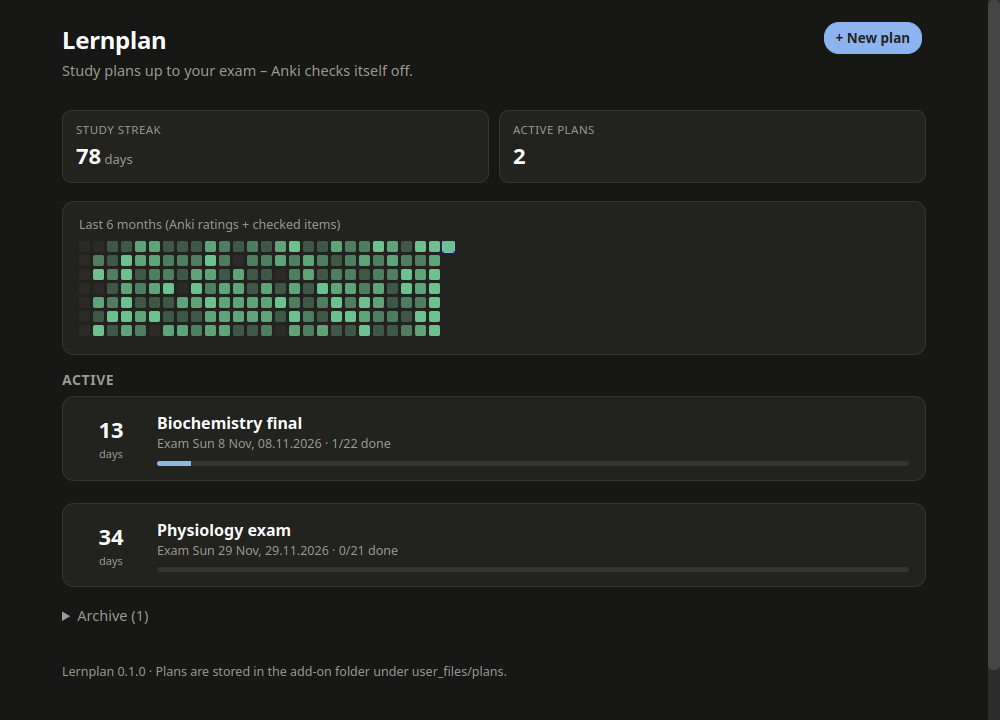
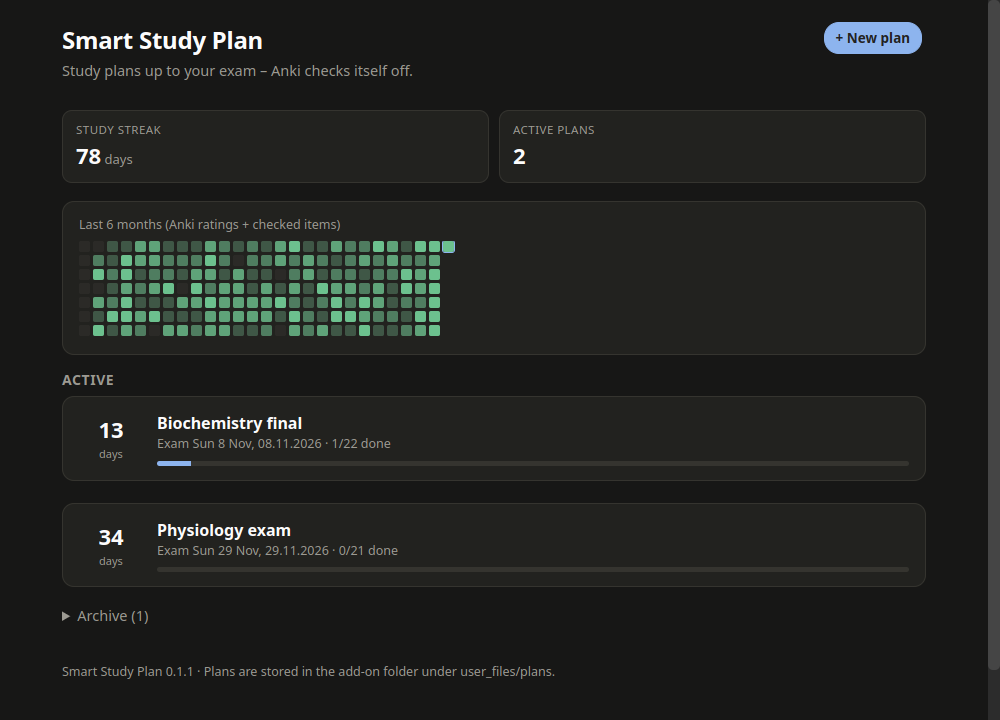
Rename to Smart Study Plan (0.1.1)

Changed region(s): [[0.062, 0.9167, 0.558, 0.9472], [0.062, 0.0306, 0.279, 0.0917]]

diff --git a/addon/web/lernplan.js b/addon/web/lernplan.js
@@ -1,4 +1,4 @@
-// Lernplan UI. Data comes from Python via pycmd("lp:{cmd,args}").
+// Smart Study Plan UI. Data comes from Python via pycmd("lp:{cmd,args}").
 (() => {
 "use strict";
 
@@ -127,7 +127,7 @@ function render() {
 function renderHome(root) {
   const d = S.data;
   root.append(h("div", { class: "top" },
-    h("div", null, h("h1", null, "Lernplan"), h("p", { class: "sub" }, L("Pläne bis zur Prüfung – Anki hakt sich selbst ab.", "Study plans up to your exam – Anki checks itself off."))),
+    h("div", null, h("h1", null, "Smart Study Plan"), h("p", { class: "sub" }, L("Pläne bis zur Prüfung – Anki hakt sich selbst ab.", "Study plans up to your exam – Anki checks itself off."))),
     h("button", { class: "primary", onclick: () => newPlan() }, L("+ Neuer Plan", "+ New plan"))));
 
   const tiles = h("div", { class: "tiles" },
@@ -142,7 +142,7 @@ function renderHome(root) {
   if (arch.length) {
     root.append(h("details", null, h("summary", null, `${L("Archiv", "Archive")} (${arch.length})`), h("div", { class: "plans" }, arch.map(planCard))));
   }
-  root.append(h("p", { class: "muted small", style: "margin-top:30px" }, `Lernplan ${d.version} · ${L("Pläne liegen im Add-on-Ordner unter user_files/plans.", "Plans are stored in the add-on folder under user_files/plans.")}`));
+  root.append(h("p", { class: "muted small", style: "margin-top:30px" }, `Smart Study Plan ${d.version} · ${L("Pläne liegen im Add-on-Ordner unter user_files/plans.", "Plans are stored in the add-on folder under user_files/plans.")}`));
 }
 function planCard(p) {
   const left = p.exam ? daysBetween(S.data.today, p.exam) : null, [dn, tot] = p.progress;
@@ -361,7 +361,7 @@ async function filtered(kind, extra) {
   const r = await run(call("filtered", Object.assign({ id: S.pid, kind }, extra || {})));
   if (!r.count) { toast(kind === "ahead" ? L("Keine Karten, die erst nach der Prüfung fällig wären.", "No cards that would only be due after the exam.") : L("Keine passenden Karten gefunden.", "No matching cards found.")); return r; }
   if (kind !== "sim") {
-    const v = await modal(L("Deck erstellt", "Deck created"), h("p", null, L(`${r.count} Karten im gefilterten Deck. Es liegt unter „Lernplan“ in deiner Deckliste.`, `${r.count} cards in the filtered deck. You'll find it under “Lernplan” in your deck list.`)), [[L("Später", "Later"), null], [L("Jetzt lernen", "Study now"), true, "primary"]]);
+    const v = await modal(L("Deck erstellt", "Deck created"), h("p", null, L(`${r.count} Karten im gefilterten Deck. Es liegt unter „Smart Study Plan“ in deiner Deckliste.`, `${r.count} cards in the filtered deck. You'll find it under “Smart Study Plan” in your deck list.`)), [[L("Später", "Later"), null], [L("Jetzt lernen", "Study now"), true, "primary"]]);
     if (v) call("study", { did: r.did });
   }
   return r;

diff --git a/addon/__init__.py b/addon/__init__.py
@@ -1,5 +1,5 @@
-# Lernplan: study plans up to the exam from books, videos, tasks and Anki decks.
-# Open it via Tools → Lernplan or the "Lernplan" link in the top bar.
+# Smart Study Plan: study plans up to the exam from books, videos, tasks and Anki decks.
+# Open it via Tools → Smart Study Plan or the "Study Plan" link in the top bar.
 # The plan checks off Anki items by itself; everything else with a click.
 import json
 import os
@@ -17,7 +17,8 @@ from aqt.webview import AnkiWebView
 from . import ankidata, planner, store
 from .planner import tr
 
-VERSION = "0.1.0"
+NAME = "Smart Study Plan"
+VERSION = "0.1.1"
 MODULE = __name__
 FOLDER = MODULE.split(".")[0]
 mw.addonManager.setWebExports(MODULE, r"web/.*\.(js|css)")
@@ -85,7 +86,7 @@ def home():
         heat[d] = heat.get(d, 0) + 1
     plans.sort(key=lambda p: (p["status"] != "active", (p["exam"] or "9999") if p["status"] == "active" else "~" + p["exam"]))
     return {"plans": plans, "today": t, "heat": heat, "streak": planner.streak(set(heat), t),
-            "profile": store.profile(), "version": VERSION}
+            "profile": store.profile(), "version": VERSION, "name": NAME}
 
 
 def generate_all(pid):
@@ -307,10 +308,10 @@ def handle(cmd, a):
     raise ValueError(f"unknown command {cmd}")
 
 
-class LernplanWindow(QDialog):
+class StudyPlanWindow(QDialog):
     def __init__(self):
         super().__init__(None, Qt.WindowType.Window)
-        self.setWindowTitle("Lernplan")
+        self.setWindowTitle(NAME)
         self.setMinimumSize(420, 500)
         lay = QVBoxLayout(self)
         lay.setContentsMargins(0, 0, 0, 0)
@@ -354,7 +355,7 @@ def open_window():
     if not mw.col:
         return
     if _win is None or not _win.isVisible():
-        _win = LernplanWindow()
+        _win = StudyPlanWindow()
         _win.finished.connect(_closed)
     _win.show()
     _win.raise_()
@@ -375,7 +376,7 @@ def _changed(*_):
 
 
 def _toolbar(links, toolbar):
-    links.append(toolbar.create_link("lernplan", "Lernplan", open_window, tip=tr("Lernplan öffnen", "Open Lernplan"), id="lernplan"))
+    links.append(toolbar.create_link("lernplan", "Study Plan", open_window, tip=tr(f"{NAME} öffnen", f"Open {NAME}"), id="lernplan"))
 
 
 def _profile_closing():
@@ -383,7 +384,7 @@ def _profile_closing():
         _win.close()
 
 
-action = QAction("Lernplan…", mw)
+action = QAction(f"{NAME}…", mw)
 action.triggered.connect(open_window)
 mw.form.menuTools.addAction(action)
 gui_hooks.top_toolbar_did_init_links.append(_toolbar)

diff --git a/addon/ankidata.py b/addon/ankidata.py
@@ -10,7 +10,7 @@ from anki.utils import ids2str
 from . import planner
 from .planner import tr
 
-FILTER_PREFIX = "Lernplan"
+FILTER_PREFIX = "Smart Study Plan"
 
 
 def today(col):
@@ -332,7 +332,7 @@ def maintenance(col, plan, on):
     if on:
         if m.get("on"):
             return m
-        name = tr(f"Lernplan · Erhaltung ({plan['title']})", f"Lernplan · Maintenance ({plan['title']})")
+        name = tr(f"{FILTER_PREFIX} · Erhaltung ({plan['title']})", f"{FILTER_PREFIX} · Maintenance ({plan['title']})")
         conf = next((c for c in col.decks.all_config() if c["name"] == name), None)
         if not conf:
             first = plan_dids(col, plan)

diff --git a/addon/planner.py b/addon/planner.py
@@ -633,7 +633,7 @@ def norm(s):
 STOP = {"und", "der", "die", "das", "des", "mit", "von", "im", "in", "teil", "the", "and", "of", "a", "m", "a"}
 ROMAN = {r: str(i) for i, r in enumerate(
     "i ii iii iv v vi vii viii ix x xi xii xiii xiv xv xvi xvii xviii xix xx".split(), 1) if r != "i"}
-GENERIC = {"testat", "pruefung", "prufung", "klausur", "lernplan", "plan", "exam", "sip", "anki", "deck",
+GENERIC = {"testat", "pruefung", "prufung", "klausur", "lernplan", "smart", "plan", "exam", "sip", "anki", "deck",
            "test", "final", "midterm", "study"}
 
 

diff --git a/README.md b/README.md
@@ -1,12 +1,12 @@
-# Lernplan
+# Smart Study Plan
 
 **Study plans up to your exam, built from your book, your lectures and your Anki decks, and checked off by Anki as you study.**
 
-You tell Lernplan what you have to learn (book pages, videos, lists of tasks, Anki decks), when the exam is and how much time you have each day. It spreads everything over the days until the exam, topic by topic: first read, then watch the lecture, then do the cards. Anki items tick themselves off while you study. If you fall behind, one click replans the rest.
+You tell Smart Study Plan what you have to learn (book pages, videos, lists of tasks, Anki decks), when the exam is and how much time you have each day. It spreads everything over the days until the exam, topic by topic: first read, then watch the lecture, then do the cards. Anki items tick themselves off while you study. If you fall behind, one click replans the rest.
 
 ![Plan view](screenshots/plan.png)
 
-*"Lernplan" is German for "study plan". The interface is in English and German and follows Anki's language.*
+*An Anki add-on. No AI and no account: the scheduler runs locally on your computer. The interface is in English and German and follows Anki's language.*
 
 ## Features
 
@@ -52,33 +52,33 @@ You tell Lernplan what you have to learn (book pages, videos, lists of tasks, An
 
 ## Install
 
-Lernplan needs a recent Anki (developed and tested on 26.09).
+Smart Study Plan needs a recent Anki (developed and tested on 26.09).
 
-**From a release**: download `lernplan.ankiaddon` from the [latest release](https://github.com/TruckDrive/lernplan/releases/latest) and open it with Anki (or *Tools → Add-ons → Install from file…*), then restart Anki.
+**From a release**: download `smart_study_plan.ankiaddon` from the [latest release](https://github.com/TruckDrive/smart-study-plan/releases/latest) and open it with Anki (or *Tools → Add-ons → Install from file…*), then restart Anki.
 
 **From source**:
 ```sh
-git clone https://github.com/TruckDrive/lernplan.git
-ln -s "$PWD/lernplan/addon" ~/.local/share/Anki2/addons21/lernplan   # Linux; on macOS/Windows copy the folder
+git clone https://github.com/TruckDrive/smart-study-plan.git
+ln -s "$PWD/smart-study-plan/addon" ~/.local/share/Anki2/addons21/smart_study_plan   # Linux; on macOS/Windows copy the folder
 ```
 
 ## Usage
 
-1. Open it via **Tools → Lernplan…** or the **Lernplan** link in Anki's top bar.
+1. Open it via **Tools → Smart Study Plan…** or the **Study Plan** link in Anki's top bar.
 2. **+ New plan**: name and exam date (you can leave the date empty for a draft).
 3. **Basics**: study time per day, days off, milestones, single days (e.g. 0 minutes on a busy day).
 4. **Sources**: add your book (pace in minutes per page, optional PDF), your lectures (one per line: `Name | 25 | https://…`), lists and Anki decks (search, or pick from the suggestions matching your plan name).
 5. **Topics**: paste the table of contents (`Peritoneum ...... 78`) or create topics from subdecks, then **Suggest links automatically** and check the ★ suggestions.
 6. **Create plan**. From then on, study in Anki as usual; the plan keeps up.
 
-Your plans are stored as JSON in the add-on folder under `user_files/plans/`, so they survive add-on updates. Filtered decks created by Lernplan live under a `Lernplan` parent deck.
+Your plans are stored as JSON in the add-on folder under `user_files/plans/`, so they survive add-on updates. Filtered decks created by the add-on live under a `Smart Study Plan` parent deck.
 
 ## Development
 
 ```sh
 python -I tests/test_planner.py               # scheduler, no Anki needed
 python -I tests/test_ankidata.py <empty dir>  # Anki queries on a throwaway collection
-./build.sh                                     # → dist/lernplan.ankiaddon
+./build.sh                                     # → dist/smart_study_plan.ankiaddon
 ```
 
 - `addon/planner.py`: the scheduler, plain Python

diff --git a/CHANGELOG.md b/CHANGELOG.md
@@ -1,5 +1,10 @@
 # Changelog
 
+## 0.1.1 – 2026-10-26
+
+- Renamed from "Lernplan" to **Smart Study Plan**. New filtered decks go under `Smart Study Plan`; existing ones under `Lernplan` keep working and can be deleted when you no longer need them
+- The `.ankiaddon` file now installs into a `smart_study_plan` folder
+
 ## 0.1.0 – 2026-10-26
 
 First public release.
